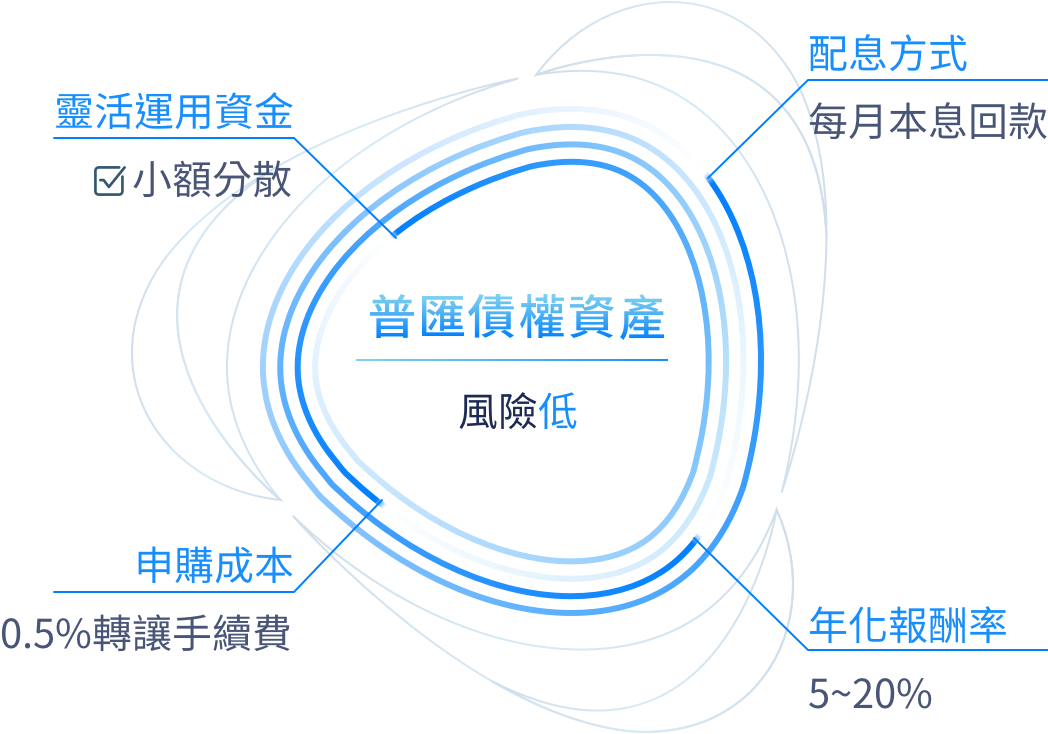
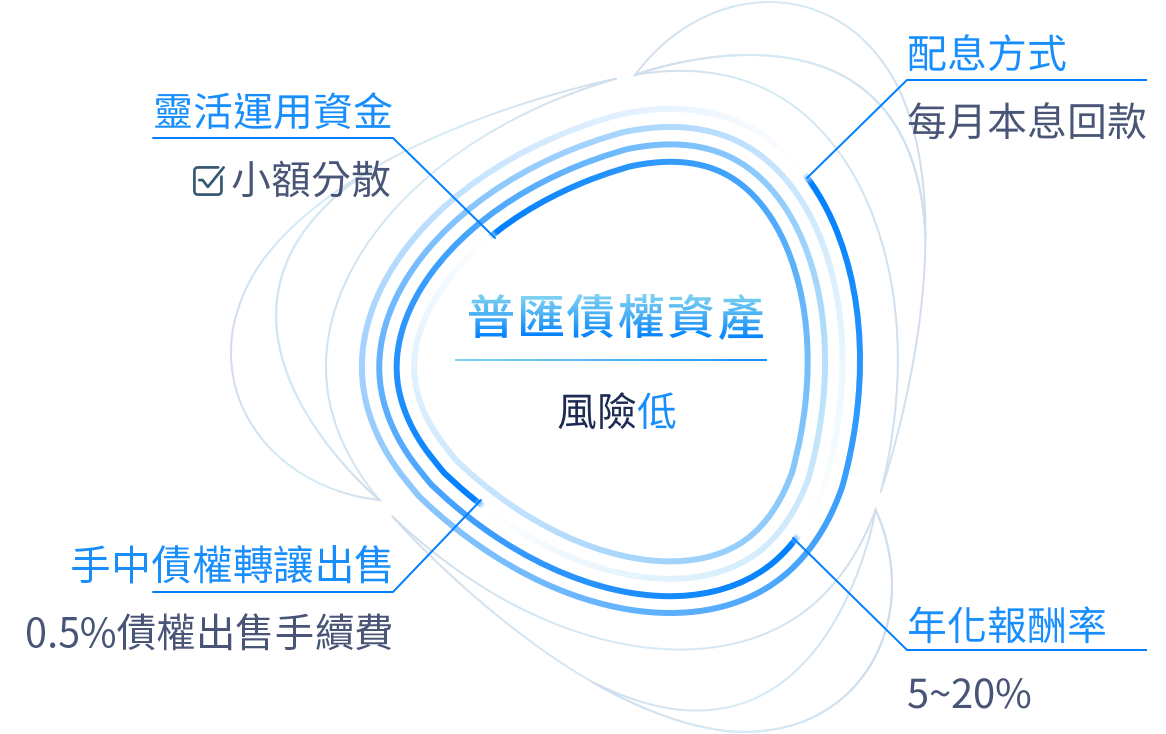
我要投資/債權投資 UI 投資工具比一比區塊，1%手續費要改為0.5%

diff --git a/resources/js/frontdesk/pages/alesis-invest.vue b/resources/js/frontdesk/pages/alesis-invest.vue
@@ -62,7 +62,7 @@
                 <alesis-space size="medium"></alesis-space>
                 <div class="網格系統">
                     <div class="甲">
-                        <img src="/images/invest_chart_a.svg">
+                        <img src="/images/invest_chart_a.png">
                     </div>
                     <div class="乙">
                         <img src="/images/invest_chart_b.png">
